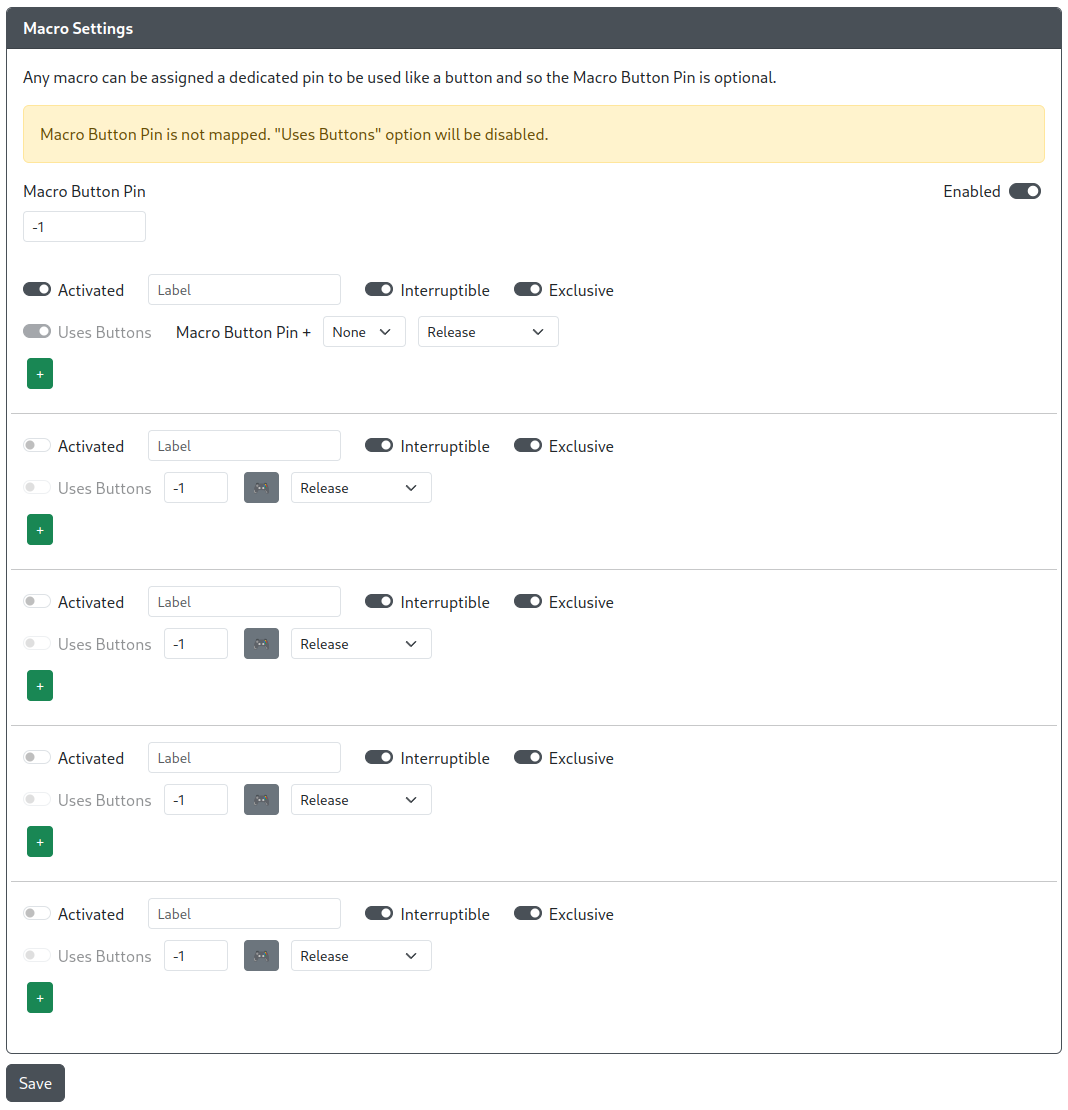
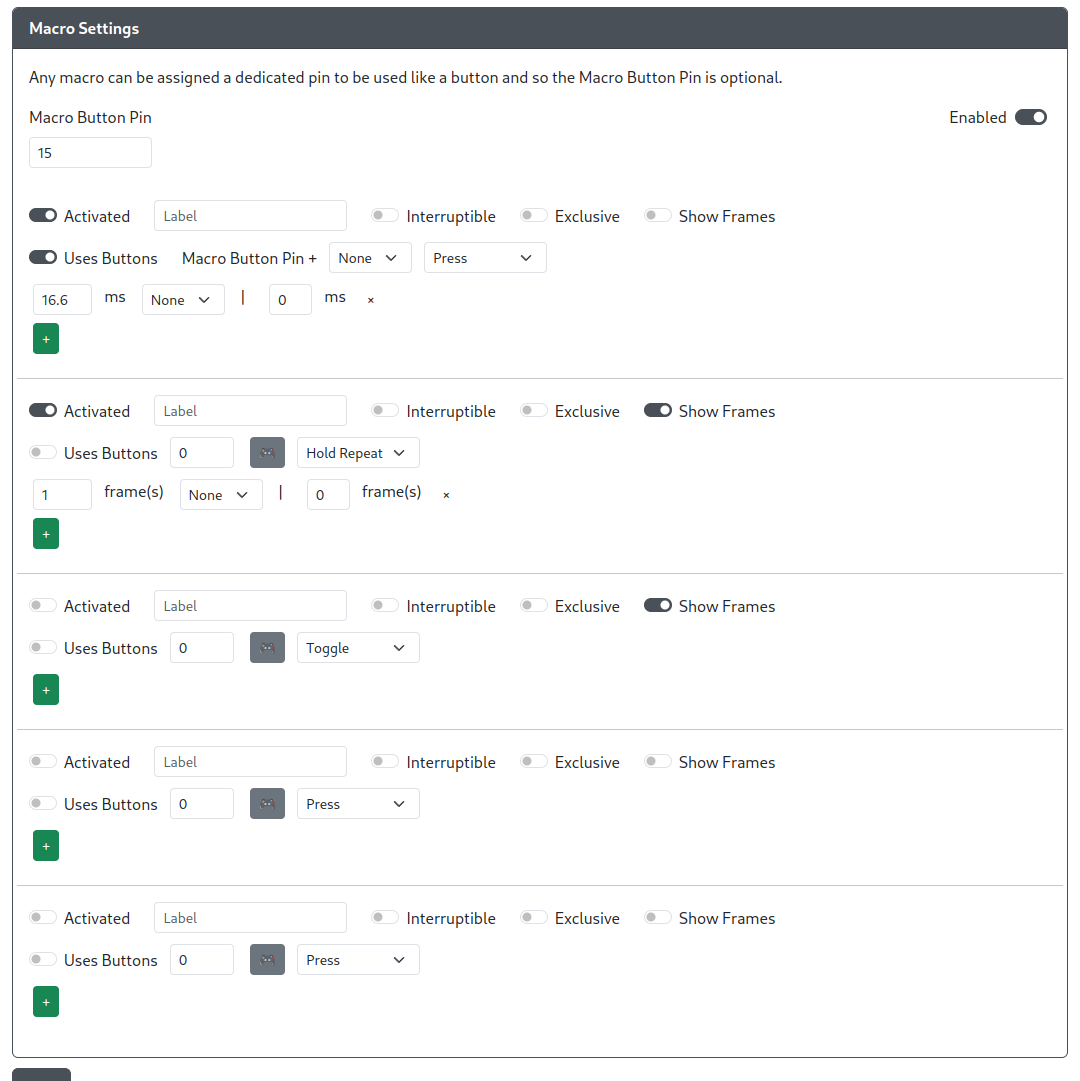
Add macro documentation

diff --git a/docs/sidebars.js b/docs/sidebars.js
@@ -23,10 +23,6 @@ const sidebars = {
       id: 'home',
     },
     {
-      type: 'doc',
-      id: 'download'
-    },
-    {
       type: 'category',
       label: 'General',
       items: [ 
@@ -51,6 +47,7 @@ const sidebars = {
       label: 'Web Configurator',
       items: [ 
         'web-configurator',
+        'macros',
         {
           type: 'category',
           label: 'Add-Ons',
@@ -78,7 +75,7 @@ const sidebars = {
         'templates',
       ]
     },
-  ]
+  ],
 };
 
 module.exports = sidebars;

diff --git a/docs/docs/macros.md b/docs/docs/macros.md
@@ -1,0 +1,68 @@
+# Macro Settings
+
+Purpose: Macros are a series or combination of gamepad inputs triggered with a single button or a combination of buttons.
+
+![GP2040-CE Configurator - Macros](@site/docs/assets/images/gpc-macros.png)
+
+## Macro Options
+
+`Macro Button Pin` - The GPIO Pin used to activate macros in combination with other inputs when `Uses Button` is enabled and set.
+
+### Label
+
+This is the name of the macro and is optional.
+
+### Activate
+
+- `Off` - The macro is not available for use.
+- `On` - The macro is available for use when triggered by either the GPIO pin or the combination set in [`Uses Button`](#uses-button).
+  
+### Interruptible
+
+- `Off` - The macro cannot be stopped and will execute all lines until the macro is completed.
+- `On` - Any input will stop the current ongoing macro or, if the input is another macro, the interrupting macro trigger will start executing instead.
+
+### Exclusive
+
+- `Off` - Additional inputs from user will be sent as the macro continues to execute, resulting in a blend of macro and user inputs.
+- `On` - Filters only the macro inputs through and excludes any additional user gamepad inputs
+
+?> This option is **only** available when `Interruptible` is enabled.
+
+### Show Frames
+
+- `Off` - The duration in the macro input line editor will appear in milliseconds (ms).
+- `On` - The duration in the macro input line editor will appear as a number of frames, assuming 60 frames per second.
+
+### Uses Button
+
+- `Off` - This macro is assigned to a GPIO pin on the board and when pressed, the macro will be triggered.
+- `On` - This macro is assigned to a button combination of `Macro Button Pin + Input` where the input can be any of the standard gamepad inputs.
+
+### Trigger Mode
+
+This describes is how the GPIO pin or the combination set in [`Uses Button`](#uses-button) triggers and repeats the macro.
+
+- Press - Full press of button triggers the macro once
+- Hold Repeat - Holding button to repeatedly triggers macro
+- Toggle - Full press of button causes the macro to repeatedly trigger, another full press of the button will stop the macro from repeatedly triggering.
+
+## Macro Input Line Editor
+
+Each individual macro has a maximum of 50 lines where each input line has a maximum of 18 gamepad inputs (using all available gamepad inputs).
+
+![GP2040-CE Configurator - Macro Input Line](@site/docs/assets/images/gpc-macros-input-line.png)
+
+Each input line is composed of the following elements from left to right.
+
+`Input Line Duration` ms `Inputs` | `Post Input Wait Duration` ms
+
+- Input Line Duration - The duration that the inputs are held for. (Maximum 4,294,967ms or 268,435 frames)
+- Inputs - The inputs to be held during the execution of the input line.
+- Post Input Wait Duration - The duration in-between when that input line finishes executing and when the next line will start executing. (Maximum 4,294,967ms or 268,435 frames)
+
+?> To delete an input line, double-click the "x" button.
+
+## Note
+
+- When a macro stops for any reason and are triggered. again, the macro starts again from the beginning.
